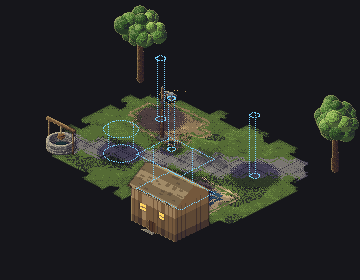
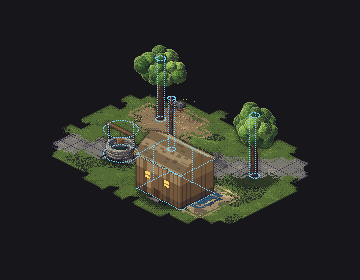
修复缩放偏移：改为绕实例原点缩放（图形与碰撞体对齐）
根因：makeCtx 的缩放按纯局部坐标处理（ox + x*sc），但构件代码
写的是「世界坐标」（ctx.x + 偏移），scale≠1 时位置被加两次，
整个图形飞离按 (o.x,o.y) 绘制的碰撞体 —— 用户看到的
「碰撞和图形偏移」。

修复：
- un() 改为 ox + (x-ox)*sc —— 绕实例原点缩放，sc=1 严格恒等
- wrapPoint 的 z 补上 +o.z 基准（capsule 顶端高度此前少了地面偏移）

防回归测试（16 断言全过）：
- 锚点：×0.5/×1/×2 三档下实例位置 ±4px 内必有像素（根部不挪窝）
- 尺度单调：像素数 ×0.5 < ×1 < ×2（wood-house/broadleaf/
  tin-lamp-post/well 四构件）

渲染对照图确认：三棵树缩放后根部钉在各自碰撞体竖线上

验证：kit 26/26 · editor · crowd · check-docs 全绿

diff --git a/demo/village/terrain.js b/demo/village/terrain.js
@@ -34,7 +34,7 @@ const SHOULDER = .55;                     /* 人行道外的留白路肩宽 */
 const DASH_PERIOD = 4.0;                  /* 虚线周期 */
 const DASH_LEN = 2.0;                     /* 虚线实段长 */
 const LINE_HW = .22;                      /* 虚线半宽 */
-const LITTER_COUNT = 2000;                /* 落叶碎屑目标数量 */
+const LITTER_COUNT = 1100;                /* 落叶碎屑目标数量（多了读作脏点） */
 
 /* 台地边界：以公路为主轴的超椭圆。长轴沿路、半轴垂直于路 ——
    这样路永远从台地中间穿过，台地连成一体（不会被路切成两块孤岛）。
@@ -42,7 +42,7 @@ const LITTER_COUNT = 2000;                /* 落叶碎屑目标数量 */
      露出一条米白背景带（参考图整幅没有背景，全是树和地面）。 */
 const HILL_HALF_LEN = 110;                    /* 沿路半长 —— 必须覆盖塔群（塔群在路
    远端之外 s≈-40，k≈-80）：否则塔脚下没有地形，树悬空在纯色背景上 */
-const HILL_HALF_HW = 34;                      /* 垂直于路的半宽（村子区）。
+const HILL_HALF_HW = 40;                      /* 垂直于路的半宽（村子区）。
    ★ 远端按 taper 放宽到 ~×1.85（≈62）：画面上部（屏幕 y 184~300）
    画布横向的世界点法向距离 d ∈ [33,54]（等距几何决定）——那边必须宽，
    否则树悬空在纯色背景上。村子区保持窄 → 路两侧干净、公路可见。
@@ -106,10 +106,12 @@ function hillE(x, y) {
   const side = c.d >= 0 ? 1.0 : .76;
   /* ★ 远端放宽（taper）：画面上部需要 ≥55 的半宽（树要落地形），
      村子区保持窄 —— 公路不被深色地形带淹没 */
-  const widen = 1 + Math.min(1, Math.max(0, (-20 - k) / 70)) * .85;
-  /* 沿路缓慢起伏（低频正弦，避免宽窄突变成台阶） */
-  const hw = HILL_HALF_HW * side * widen
-    * (1 + .20 * Math.sin(k * .062 + .6) + .09 * Math.sin(k * .038 - 1.3));
+  const widen = 1 + Math.min(1, Math.max(0, (-10 - k) / 20)) * 1.5;
+  /* 沿路缓慢起伏（低频正弦，避免宽窄突变成台阶）。
+   ★ 波形除以 widen：宽端的波形谷（×.71）会把 hw 拉破保底宽度，
+     上部边缘漏地形（塔又悬空）。宽端要的是"稳宽"，不要起伏。 */
+  const wave = 1 + (.20 * Math.sin(k * .062 + .6) + .09 * Math.sin(k * .038 - 1.3)) / widen;
+  const hw = HILL_HALF_HW * side * widen * wave;
   const ds = k / HILL_HALF_LEN;
   const dd = c.d / hw;
   const e = Math.pow(Math.pow(Math.abs(ds), HILL_POW) + Math.pow(Math.abs(dd), HILL_POW), 1 / HILL_POW);

diff --git a/demo/village/palette.js b/demo/village/palette.js
@@ -31,16 +31,18 @@ const SKY = rgb(252, 245, 218);
  *   而参考图是 .80~.87）。 */
 const HAZE = rgb(248, 196, 52);
 
-/* 地面：秋色落叶层，5 档（橙黄系） */
+/* 地面：秋色落叶层，5 档（橙黄系）。
+ * ★ 最深档不能太深：路面 ASPHALT 是灰白系，地形深档一旦接近路面
+ *   明度，公路就会"陷进"地形里读不出来（实测踩坑）。 */
 const LITTER = [
-  [142, 88, 32], [168, 110, 36], [192, 134, 40],
-  [214, 158, 48], [232, 180, 62],
+  [172, 112, 38], [192, 128, 42], [210, 148, 48],
+  [226, 168, 56], [238, 188, 70],
 ];
 
 /* 落叶碎屑（撒在地面上的单像素） */
 const LEAF_BITS = [
-  [214, 142, 38], [232, 172, 52], [186, 104, 30],
-  [160, 76, 26], [244, 198, 88], [204, 122, 34],
+  [218, 152, 44], [234, 178, 58], [192, 118, 38],
+  [172, 92, 34], [246, 202, 94], [210, 132, 42],
 ];
 
 /* 阔叶树冠：4 档金黄 → 从淡到浓（近处用浓的） */
@@ -80,7 +82,8 @@ const SMOKE = rgb(232, 216, 190);
 
 /* ---- 道路：暖灰（实测参考图路面 (141,124,105)） ---- */
 
-const ASPHALT = [[96, 88, 78], [110, 101, 90], [124, 114, 101], [138, 127, 112]];
+/* 沥青：亮灰白系（参考图的路是画面里最亮的带，对比出公路） */
+const ASPHALT = [[164, 160, 150], [180, 176, 165], [196, 192, 181], [210, 206, 196]];
 const ROAD_LINE = rgb(238, 194, 62);
 const CURB = [190, 180, 162];
 const WALK = [206, 196, 176];

diff --git a/demo/kit/render.js b/demo/kit/render.js
@@ -90,16 +90,18 @@ const KIT_RENDER = {
     const rot = o.rot || 0;
     const sc = (o.scale == null || !Number.isFinite(o.scale) || o.scale <= 0) ? 1 : o.scale;
     const cs = Math.cos(rot), sn = Math.sin(rot);
-    /* 局部坐标 → 世界：先缩放再旋转再平移 */
+    /* 构件坐标是「世界坐标」（ctx.x + 偏移 的形式），
+       所以缩放必须绕实例原点 (ox,oy) 做 —— ox + (x-ox)*sc。
+       写成 ox + x*sc 会把位置加两次，scale≠1 时整个图形飞离碰撞体。
+       sc=1 时严格恒等。 */
     const un = (x, y) => {
-      const dx = x * sc, dy = y * sc;
+      const dx = (x - ox) * sc, dy = (y - oy) * sc;
       if (rot) {
-        const rx = dx * cs + dy * sn, ry = -dx * sn + dy * cs;
-        return [ox + rx, oy + ry];
+        return [ox + dx * cs + dy * sn, oy - dx * sn + dy * cs];
       }
       return [ox + dx, oy + dy];
     };
-    const wrapPoint = p => { const q = un(p[0], p[1]); return [q[0], q[1], p[2] * sc]; };
+    const wrapPoint = p => { const q = un(p[0], p[1]); return [q[0], q[1], (o.z || 0) + p[2] * sc]; };
 
     return {
       x: ox, y: oy, z: o.z || 0,

diff --git a/demo/engine.js b/demo/engine.js
@@ -241,6 +241,10 @@ function applyShadows(refZ) {
     if (!s) continue;
     shadowMask[i] = 0;
     if (!ground[i] || zb[i] !== refZ[i]) continue;
+    /* ★ 路面（KIND_NONE）免影：车行道是画面的"亮带"，
+       参考图里路面干净、只有路缘外的地面吃影 ——
+       塔林/房屋的影子若染上路，公路会被淹没读不出来 */
+    if (kinds[i] === KIND_NONE) continue;
     if (s === 1) tint(i, .54, .52, .72);
     else tint(i, .36, .34, .56);
   }

diff --git a/demo/village/foliage.js b/demo/village/foliage.js
@@ -150,8 +150,10 @@ function growFoliage() {
 /* ---------------- 树的投影（烘焙时投一次） ---------------- */
 function castTreeShadows() {
   for (const t of trees) {
+    /* 离路太近的树只投脚下小影 —— 大影会横扫路面 */
+    const near = folRoadDist(t.x, t.y) < 9;
     const s = t.scale;
-    castShadow(t.x, t.y, 4 * s, 3.4 * s, 1, .5);
+    if (!near) castShadow(t.x, t.y, 4 * s, 3.4 * s, 1, .5);
     castShadow(t.x, t.y, 0, .3 * s, 2, 0);
   }
 }

diff --git a/docs/modules/engine.md b/docs/modules/engine.md
@@ -85,6 +85,8 @@ ctx.putImageData(image, 0, 0);
 |----------|--------|
 | 画面更粗糙/更精细 | `S`（每单位像素数） |
 | 光源方向 | `sphere()` 里的 `-.55 * dx - .6 * dy + .58 * nz` |
+| 画布铺满窗口 | 页面设 `PP_FULLSCREEN=true`（像素数 = 窗口/S）；窗口变化走 `PP_setSize()` 重建缓冲并回调 `window.PP_ONRESIZE`（场景重跑 bake）。无头工具设 `PP_HEADLESS=true` 跳过全屏，保持 `PP_W/PP_H` 兜底尺寸 |
+| 影子不染某类地面 | `applyShadows()` 里加 `kinds[i]` 过滤（village 用它让车行道免影，公路保持亮带） |
 | 明暗对比 | `rampOf()` 的倍率与 `COOL` / `WARM` |
 | 抖动强度 | `sphere()` 里的 `* .7` |
 | 阴影方向 | `SHADOW_X` / `SHADOW_Y` |
